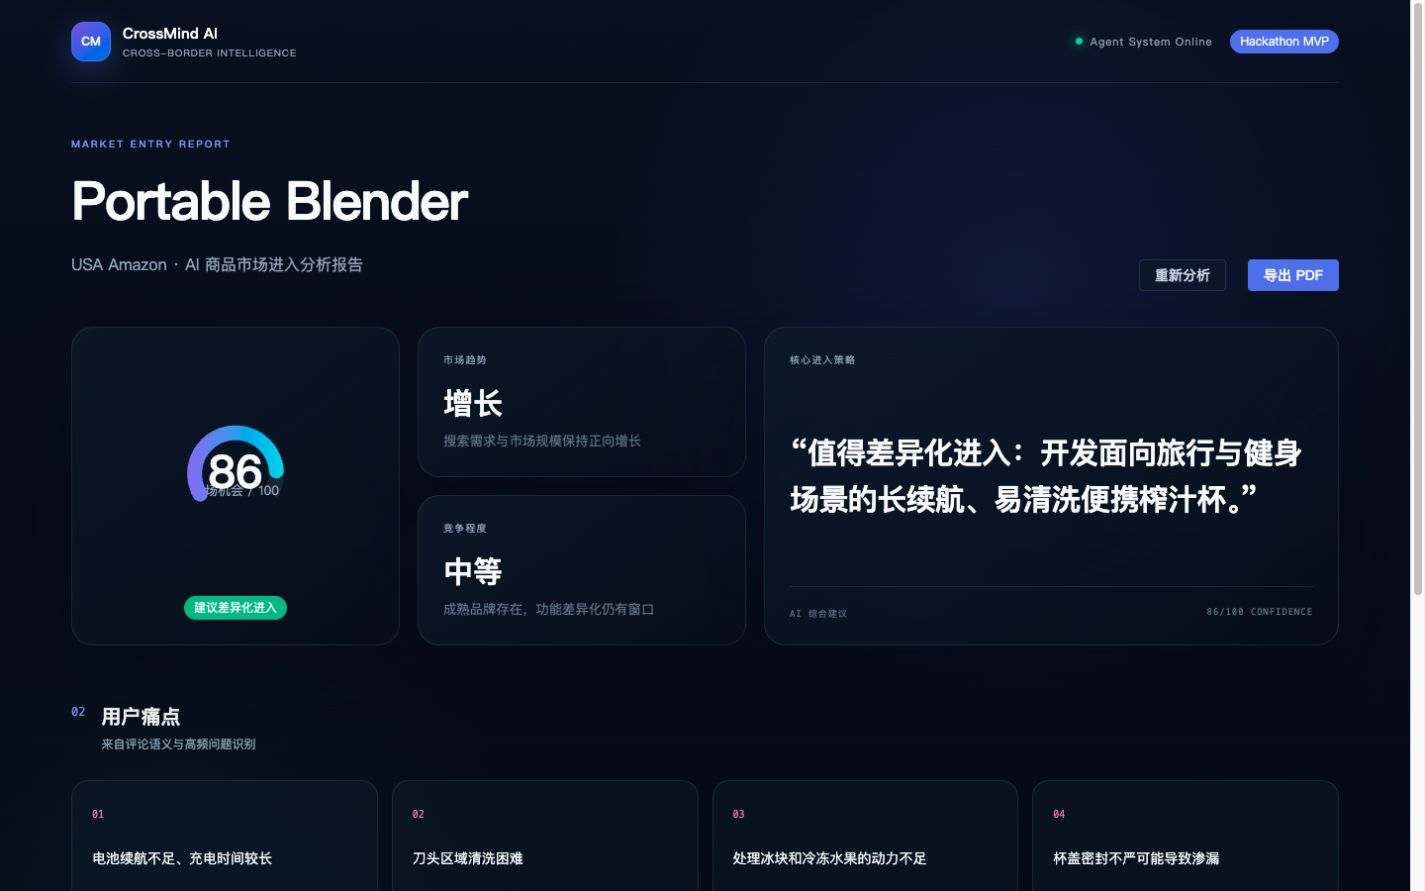
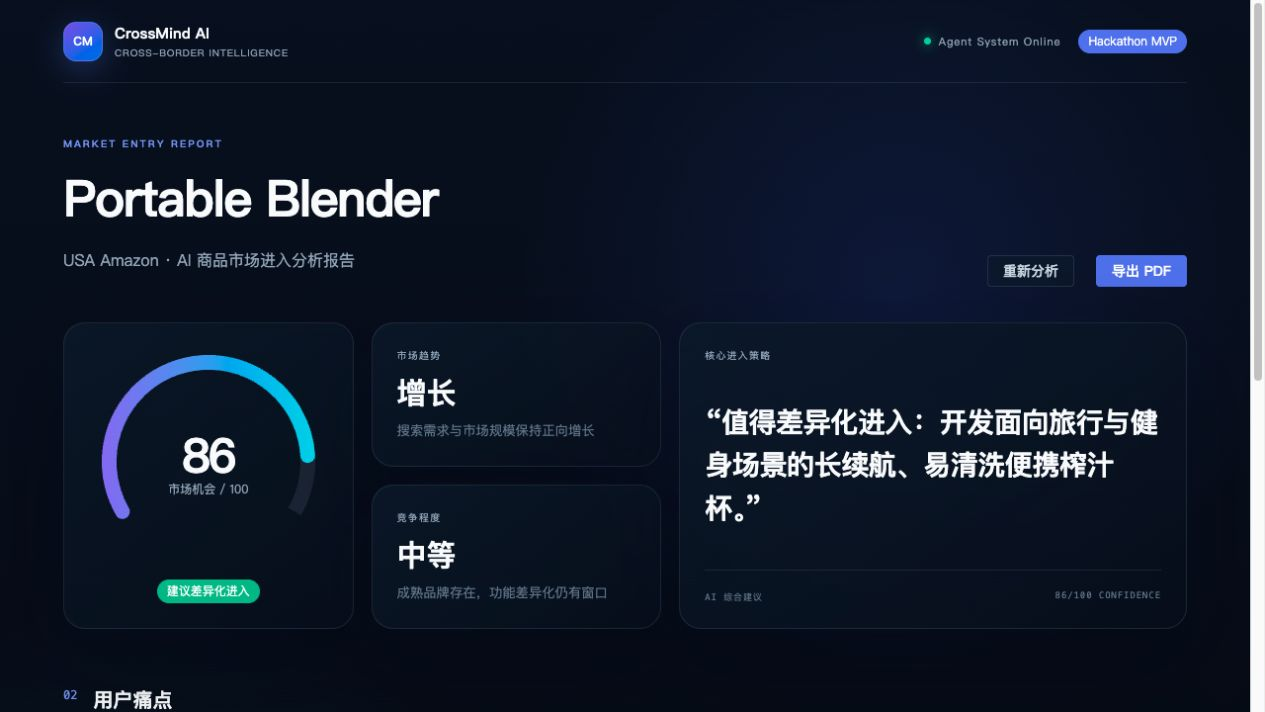
fix report score layout and screenshot (#1)

diff --git a/frontend/src/App.vue b/frontend/src/App.vue
@@ -380,7 +380,7 @@ onBeforeUnmount(clearPollTimer)
 .agent-list { margin-top: 24px; }.agent-task { display: grid; grid-template-columns: 34px 34px 1fr auto; gap: 13px; align-items: center; min-height: 78px; padding: 13px 4px; border-top: 1px solid rgba(148, 163, 184, .09); opacity: .48; transition: .3s ease; }.agent-task.running, .agent-task.completed { opacity: 1; }.task-number { color: #475569; font: 10px ui-monospace, monospace; }.task-status-icon { display: grid; place-items: center; width: 30px; height: 30px; border: 1px solid #334155; border-radius: 10px; color: #64748b; }.task-status-icon i { width: 9px; height: 9px; border-radius: 50%; background: #818cf8; box-shadow: 0 0 15px #6366f1; animation: pulse 1.2s infinite; }.completed .task-status-icon { color: #34d399; border-color: rgba(52, 211, 153, .35); background: rgba(16, 185, 129, .08); }.failed .task-status-icon { color: #fb7185; border-color: rgba(251, 113, 133, .35); }.task-copy { display: grid; gap: 5px; }.task-copy strong { font-size: 14px; }.task-copy span { color: var(--muted); font-size: 11px; }.task-status { color: #64748b; font-size: 10px; }.running .task-status { color: #a78bfa; }.completed .task-status { color: #34d399; }
 .agent-console { position: relative; display: flex; min-height: 410px; flex-direction: column; align-items: center; justify-content: center; overflow: hidden; border: 1px solid rgba(99, 102, 241, .18); border-radius: 22px; background: rgba(7, 11, 23, .76); text-align: center; }.console-glow { position: absolute; width: 240px; height: 240px; border-radius: 50%; background: rgba(79, 70, 229, .14); filter: blur(54px); }.agent-console > p { color: #64748b; font-size: 9px; letter-spacing: .2em; }.agent-console h2 { margin: 22px 0 8px; font-size: 18px; }.agent-console > span { max-width: 220px; color: var(--muted); font-size: 11px; line-height: 1.6; }.orb { position: relative; display: grid; place-items: center; width: 102px; height: 102px; margin-top: 20px; border: 1px solid rgba(129, 140, 248, .26); border-radius: 50%; background: radial-gradient(circle, rgba(99, 102, 241, .35), rgba(30, 41, 59, .08) 65%); box-shadow: 0 0 48px rgba(99, 102, 241, .24); }.orb::before, .orb::after { content: ''; position: absolute; inset: -11px; border: 1px solid rgba(129, 140, 248, .2); border-radius: 50%; animation: spin 7s linear infinite; border-top-color: #818cf8; }.orb::after { inset: 13px; animation-direction: reverse; animation-duration: 4s; }.orb > span { width: 20px; height: 20px; border-radius: 50%; background: #818cf8; box-shadow: 0 0 28px #6366f1; }.orb.complete > span { display: grid; place-items: center; width: 38px; height: 38px; color: white; background: #10b981; }.signal-lines { display: flex; align-items: center; gap: 4px; height: 30px; margin-top: 24px; }.signal-lines i { width: 2px; height: 8px; background: #6366f1; animation: signal .8s ease-in-out infinite alternate; }.signal-lines i:nth-child(2), .signal-lines i:nth-child(4) { animation-delay: .2s; }.signal-lines i:nth-child(3) { animation-delay: .4s; }
 .workflow-error { max-width: 1050px; margin: 20px auto 0; }.error-actions { margin-top: 10px; }
-.report-view { padding: 54px 0 70px; }.report-header { display: flex; align-items: end; justify-content: space-between; gap: 30px; margin-bottom: 36px; }.report-header p:last-child { color: var(--muted); }.report-actions { display: flex; gap: 10px; }.report-grid { display: grid; gap: 18px; }.report-summary { grid-template-columns: .8fr .8fr 1.4fr; }.score-card { display: flex; flex-direction: column; align-items: center; justify-content: center; }.summary-stack { display: grid; gap: 18px; }.metric-card :deep(.el-card__body) { display: flex; height: 100%; flex-direction: column; }.metric-card span, .section-label { color: var(--muted); font-size: 10px; letter-spacing: .12em; text-transform: uppercase; }.metric-card strong { margin: auto 0 8px; font-size: 30px; }.metric-card small { color: #64748b; line-height: 1.5; }.strategy-card :deep(.el-card__body) { display: flex; height: 100%; flex-direction: column; }.strategy-card blockquote { margin: auto 0; font-size: clamp(21px, 2.2vw, 30px); font-weight: 650; line-height: 1.55; letter-spacing: -.02em; }.strategy-meta { display: flex; justify-content: space-between; padding-top: 20px; border-top: 1px solid var(--border); color: #64748b; font: 9px ui-monospace, monospace; letter-spacing: .1em; }
+.report-view { padding: 54px 0 70px; }.report-header { display: flex; align-items: end; justify-content: space-between; gap: 30px; margin-bottom: 36px; }.report-header > div:first-child { min-width: 0; }.report-header h1 { overflow-wrap: anywhere; }.report-header p:last-child { color: var(--muted); }.report-actions { display: flex; gap: 10px; }.report-grid { display: grid; gap: 18px; }.report-summary { grid-template-columns: .8fr .8fr 1.4fr; }.report-summary > * { min-width: 0; }.score-card :deep(.el-card__body) { display: flex; height: 100%; flex-direction: column; align-items: center; justify-content: center; gap: 4px; }.summary-stack { display: grid; gap: 18px; }.metric-card :deep(.el-card__body) { display: flex; height: 100%; flex-direction: column; }.metric-card span, .section-label { color: var(--muted); font-size: 10px; letter-spacing: .12em; text-transform: uppercase; }.metric-card strong { margin: auto 0 8px; font-size: 30px; }.metric-card small { color: #64748b; line-height: 1.5; }.strategy-card :deep(.el-card__body) { display: flex; height: 100%; flex-direction: column; }.strategy-card blockquote { margin: auto 0; overflow-wrap: anywhere; font-size: clamp(21px, 2.2vw, 30px); font-weight: 650; line-height: 1.55; letter-spacing: -.02em; }.strategy-meta { display: flex; justify-content: space-between; padding-top: 20px; border-top: 1px solid var(--border); color: #64748b; font: 9px ui-monospace, monospace; letter-spacing: .1em; }
 .report-section { margin-top: 58px; }.pain-point-grid { display: grid; grid-template-columns: repeat(4, 1fr); gap: 14px; }.pain-point-grid article { min-height: 130px; padding: 20px; border: 1px solid var(--border); border-radius: 17px; background: rgba(15, 23, 42, .52); }.pain-point-grid span { color: #f472b6; font: 10px ui-monospace, monospace; }.pain-point-grid p { margin: 26px 0 0; font-size: 14px; line-height: 1.55; }
 .recommendation-grid { grid-template-columns: 1.05fr .8fr 1.15fr; margin-top: 20px; }.recommendation-card { min-height: 260px; }.card-kicker { color: #818cf8; font: 9px ui-monospace, monospace; letter-spacing: .18em; }.recommendation-card h2 { margin: 12px 0 24px; font-size: 20px; }.recommendation-card ul { display: grid; gap: 14px; padding: 0; list-style: none; }.recommendation-card li { position: relative; padding-left: 20px; color: #cbd5e1; font-size: 13px; line-height: 1.6; }.recommendation-card li::before { content: '→'; position: absolute; left: 0; color: #818cf8; }.pricing-card strong { display: block; color: #67e8f9; font-size: 23px; }.recommendation-card p { color: var(--muted); font-size: 13px; line-height: 1.7; }.channel-tags { display: flex; flex-wrap: wrap; gap: 7px; margin-top: 18px; }.channel-tags span { padding: 6px 8px; border: 1px solid rgba(34, 211, 238, .2); border-radius: 6px; color: #67e8f9; font: 8px ui-monospace, monospace; letter-spacing: .1em; }
 .report-footer { display: flex; justify-content: space-between; margin-top: 42px; padding-top: 20px; border-top: 1px solid var(--border); color: #475569; font: 9px ui-monospace, monospace; letter-spacing: .09em; }

diff --git a/frontend/src/components/ScoreGauge.vue b/frontend/src/components/ScoreGauge.vue
@@ -54,20 +54,9 @@ const option = computed(() => ({
       splitLine: { show: false },
       axisLabel: { show: false },
       anchor: { show: false },
-      title: {
-        offsetCenter: [0, '34%'],
-        color: '#94a3b8',
-        fontSize: 13,
-      },
-      detail: {
-        valueAnimation: true,
-        offsetCenter: [0, '-4%'],
-        color: '#f8fafc',
-        fontSize: 46,
-        fontWeight: 700,
-        formatter: '{value}',
-      },
-      data: [{ value: props.score, name: '市场机会 / 100' }],
+      title: { show: false },
+      detail: { show: false },
+      data: [{ value: props.score }],
     },
   ],
 }))
@@ -96,13 +85,50 @@ onBeforeUnmount(() => {
 </script>
 
 <template>
-  <div ref="chartElement" class="score-gauge" role="img" :aria-label="`市场机会评分 ${score} 分`"></div>
+  <div class="score-gauge" role="img" :aria-label="`市场机会评分 ${score} 分`">
+    <div ref="chartElement" class="score-gauge__chart" aria-hidden="true"></div>
+    <div class="score-gauge__value" aria-hidden="true">
+      <strong>{{ score }}</strong>
+      <span>市场机会 / 100</span>
+    </div>
+  </div>
 </template>
 
 <style scoped>
 .score-gauge {
+  position: relative;
   width: 100%;
-  height: 245px;
+  height: 230px;
+}
+
+.score-gauge__chart {
+  width: 100%;
+  height: 100%;
+}
+
+.score-gauge__value {
+  position: absolute;
+  inset: 0;
+  display: flex;
+  flex-direction: column;
+  align-items: center;
+  justify-content: center;
+  gap: 3px;
+  padding-top: 8px;
+  pointer-events: none;
+}
+
+.score-gauge__value strong {
+  color: #f8fafc;
+  font-size: clamp(40px, 4vw, 48px);
+  font-weight: 750;
+  line-height: .95;
+  letter-spacing: -.045em;
+}
+
+.score-gauge__value span {
+  color: #94a3b8;
+  font-size: 12px;
+  line-height: 1.4;
 }
 </style>
-
